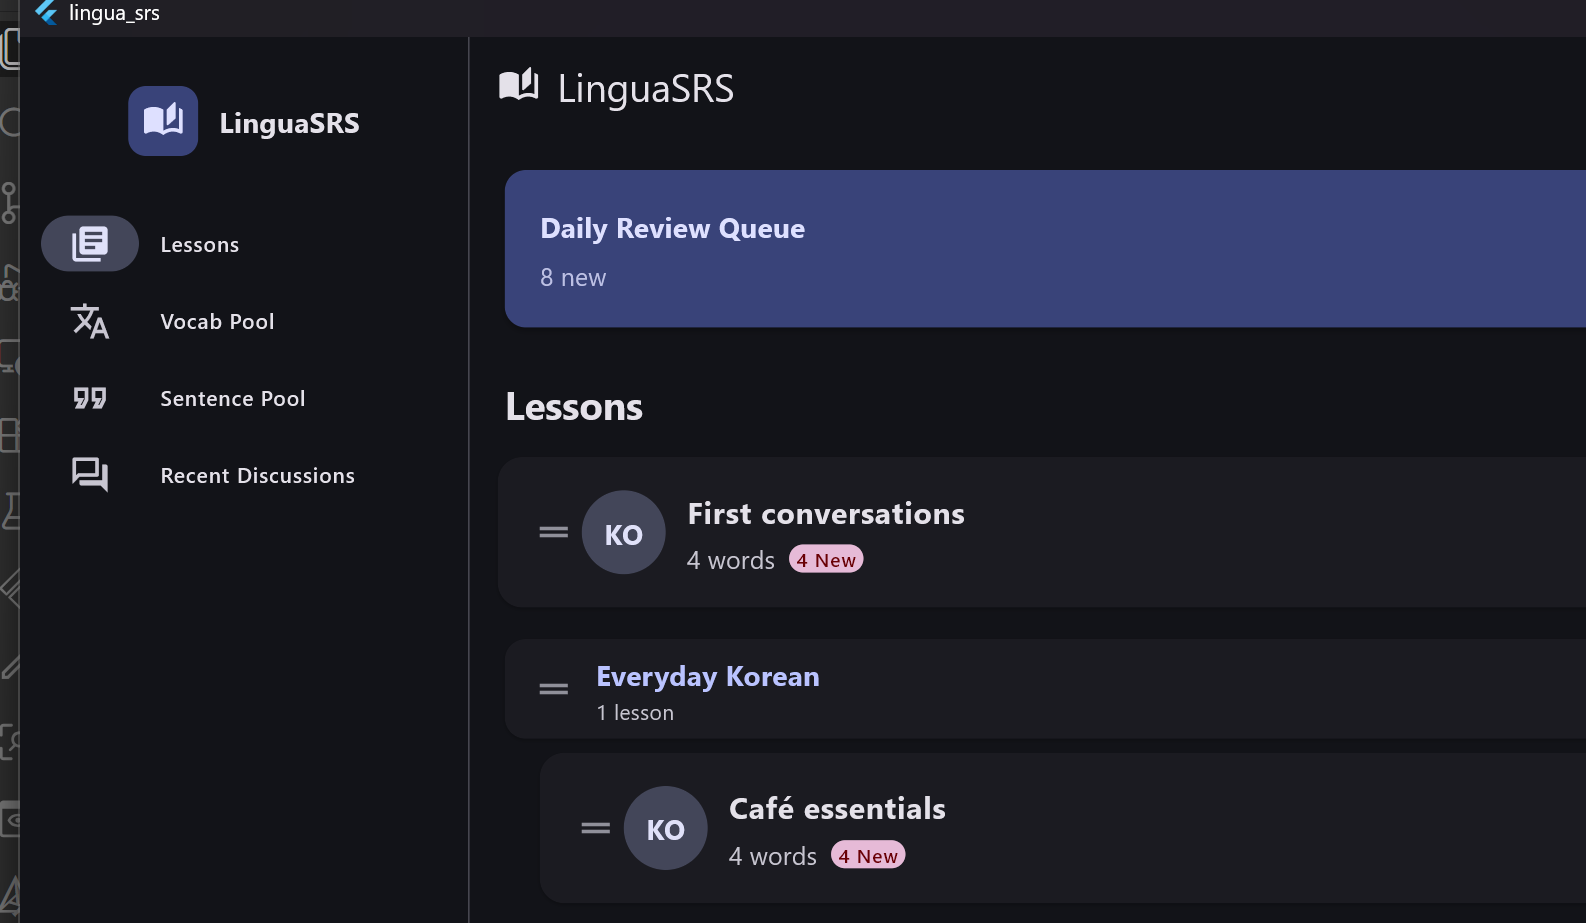
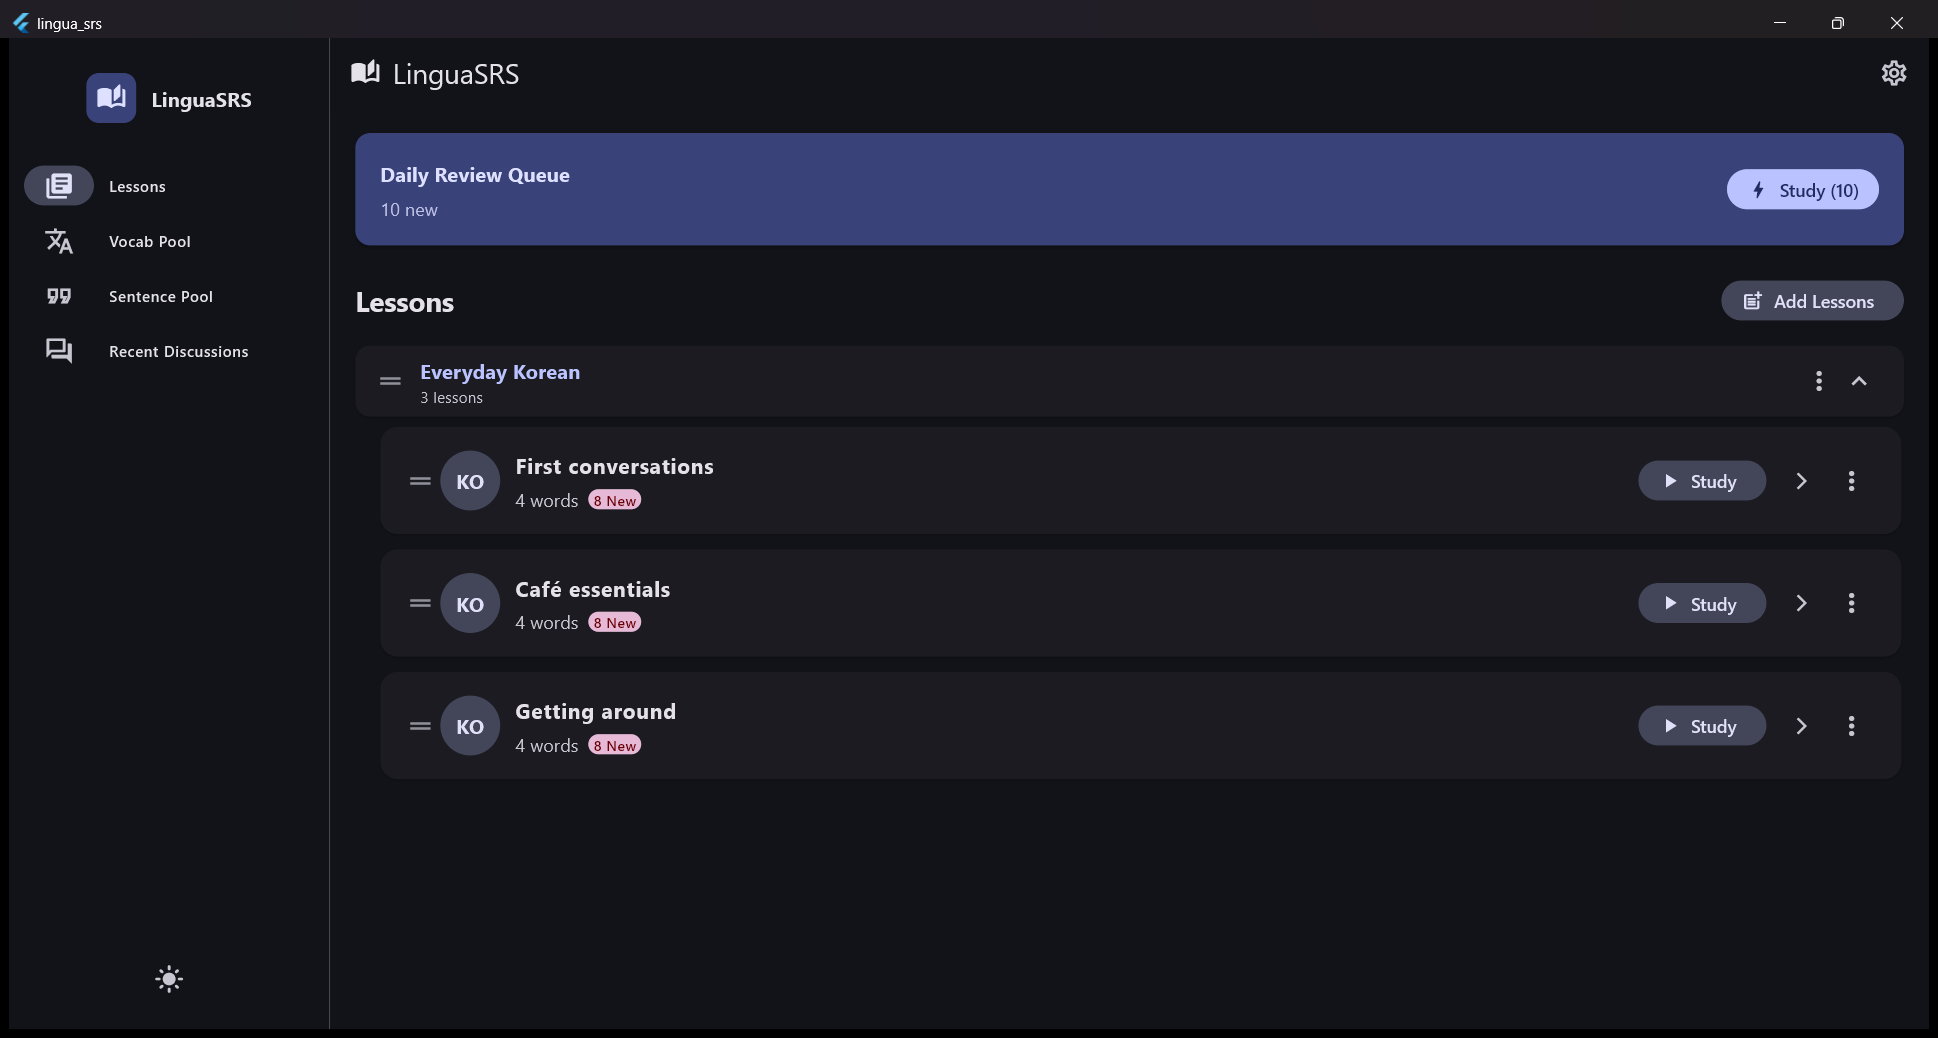
docs(readme): repair Windows screenshots

diff --git a/README.md b/README.md
@@ -4,10 +4,16 @@ SRS that puts language learning first: custom lessons, lesson-by-lesson vocabula
 
 ## Screenshots
 
-<p align="center">
-  <img src="docs/images/desktop-lessons.png" alt="Desktop lessons dashboard with daily review queue" width="74%">
-  <img src="docs/images/android-lessons.png" alt="LinguaSRS lessons dashboard on a Pixel Fold Android emulator" width="20%">
-</p>
+<table>
+  <tr>
+    <th align="center">Desktop</th>
+    <th align="center">Android</th>
+  </tr>
+  <tr>
+    <td valign="top"><img src="docs/images/desktop-lessons.png" alt="Desktop lessons dashboard with daily review queue" width="100%"></td>
+    <td valign="top"><img src="docs/images/android-lessons.png" alt="LinguaSRS lessons dashboard on Android" width="100%"></td>
+  </tr>
+</table>
 
 <details>
 <summary>More desktop screenshots</summary>
